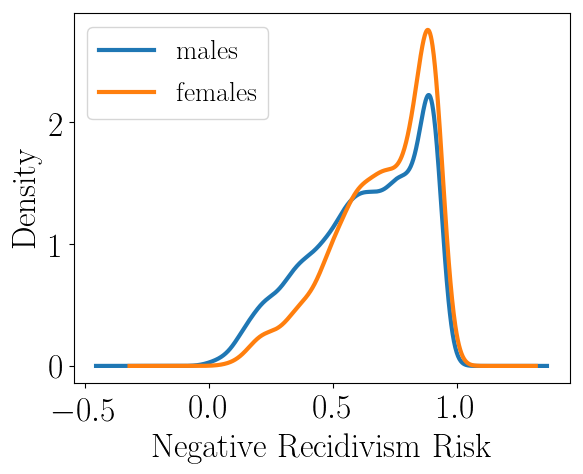
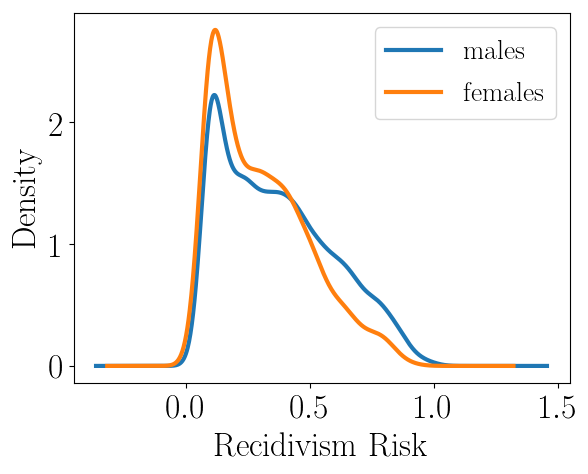
back-invert compas scores for plots

diff --git a/experiments/dataExperiments/src/visualize.py b/experiments/dataExperiments/src/visualize.py
@@ -10,27 +10,35 @@ import pandas as pd
 
 def visualizeOrigCompasData():
     data = pd.read_csv("../data/COMPAS/compas_sex_java.csv", header=0, skipinitialspace=True)
+    # invert scores for plots
+    data["score"] = 1 - data["score"]
     labels = {"0": "females",
               "1": "males"}
-    plotKDEPerGroup(data, "Negative Recidivism Risk", "../data/COMPAS/compas_sex_kde.png", colNames=labels)
+    plotKDEPerGroup(data, "Recidivism Risk", "../data/COMPAS/compas_sex_kde.png", colNames=labels)
 
     data = pd.read_csv("../data/COMPAS/compas_race_java.csv", header=0, skipinitialspace=True)
+    # invert scores for plots
+    data["score"] = 1 - data["score"]
     labels = {"0": "white",
               "1": "non-white"}
-    plotKDEPerGroup(data, "Negative Recidivism Risk", "../data/COMPAS/compas_race_kde.png", colNames=labels)
+    plotKDEPerGroup(data, "Recidivism Risk", "../data/COMPAS/compas_race_kde.png", colNames=labels)
 
     data = pd.read_csv("../data/COMPAS/compas_age_java.csv", header=0, skipinitialspace=True)
+    # invert scores for plots
+    data["score"] = 1 - data["score"]
     labels = {"0": "older 45",
               "2": "younger 25",
               "1": "25 - 45"}
-    plotKDEPerGroup(data, "Negative Recidivism Risk", "../data/COMPAS/compas_age_kde.png", colNames=labels)
+    plotKDEPerGroup(data, "Recidivism Risk", "../data/COMPAS/compas_age_kde.png", colNames=labels)
 
     data = pd.read_csv("../data/COMPAS/compas_worstThreeGroups_java.csv", header=0, skipinitialspace=True)
+    # invert scores for plots
+    data["score"] = 1 - data["score"]
     labels = {"0": "others",
               "1": "Y NW F",
               "2": "Y W F",
               "3": "Y NW M"}
-    plotKDEPerGroup(data, "Negative Recidivism Risk", "../data/COMPAS/compas_worstThreeGroups_kde.png", colNames=labels)
+    plotKDEPerGroup(data, "Recidivism Risk", "../data/COMPAS/compas_worstThreeGroups_kde.png", colNames=labels)
 
 
 def visualizeOrigGermanCreditData():
